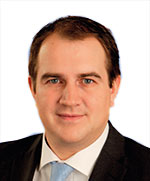
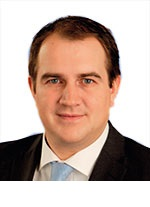
update

diff --git a/page-kontakt.php b/page-kontakt.php
@@ -56,7 +56,7 @@
                     
                     <div class="col-sm-3 col-md-3">	 	
                         <div class="thumbnail">
-                            <img style="border: 1px solid; min-height: 180px; max-height: 180px;" src="<?php echo get_stylesheet_directory_uri(); ?>/assets/img/karsten.png" alt="BILD" width="145" height="96" class="alignnone size-thumbnail ">		 	 
+                            <img style="border: 1px solid; min-height: 180px; max-height: 180px;" src="<?php echo get_stylesheet_directory_uri(); ?>/assets/img/karsten.jpg" alt="BILD" width="145" height="96" class="alignnone size-thumbnail ">		 	 
                             <div class="caption">	<br>
                                 <h3>Karsten Milewsky</h3>	 	 
                                 <p style="font-weight: bold;">Leiter Output Management</p>
